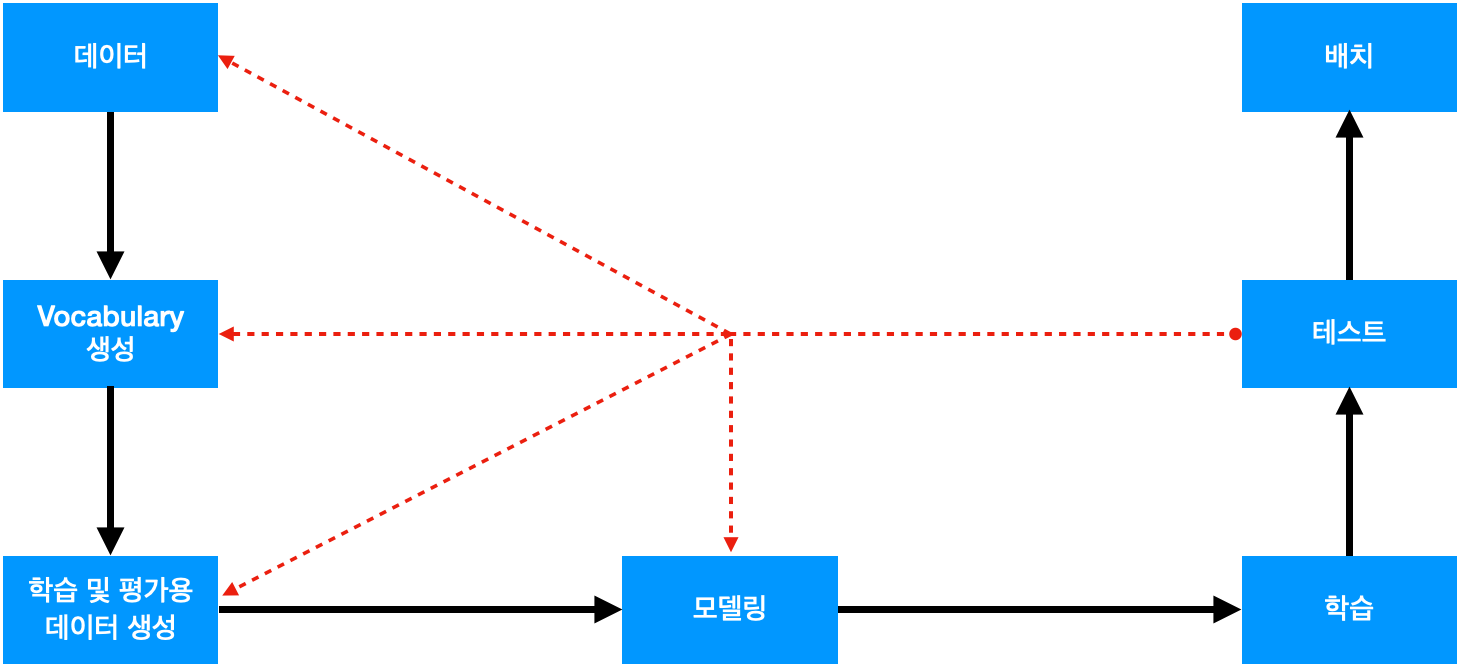
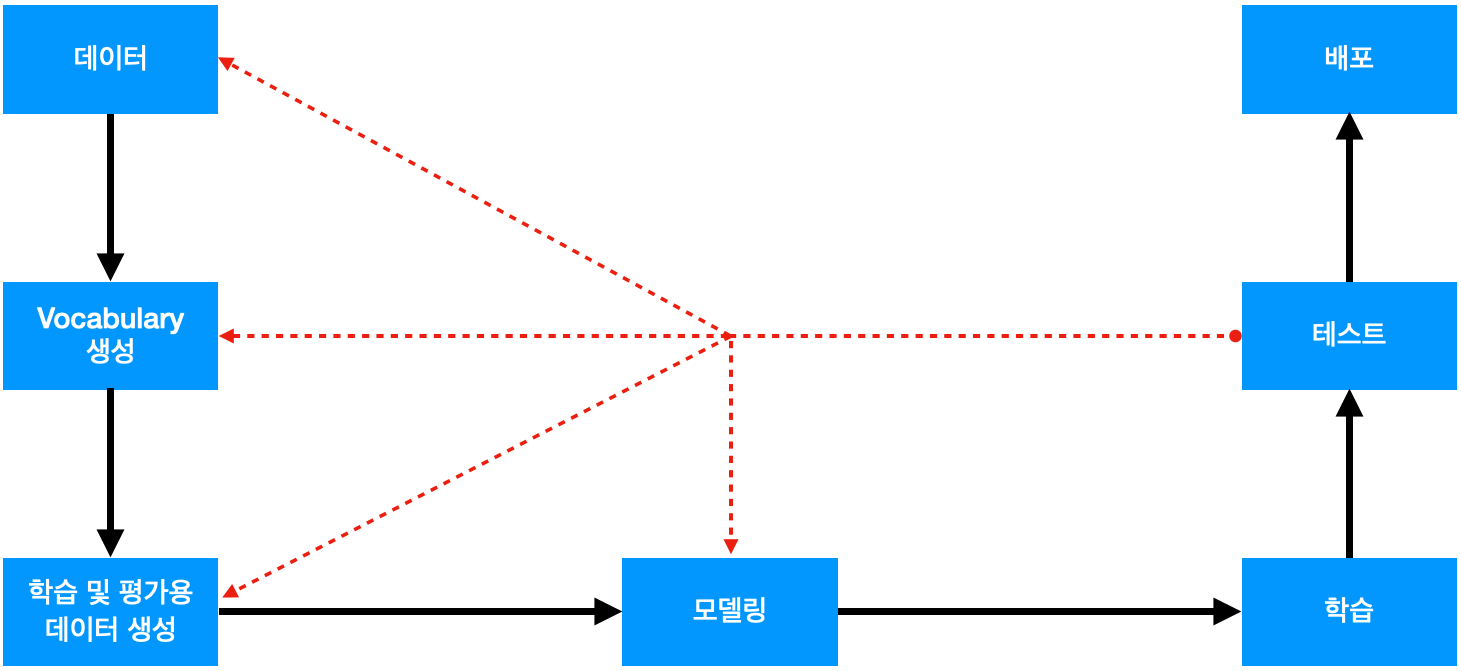
배치 용어 정리

diff --git a/_posts/2021-03-10-nlp-tutorial-01-01-sequence-prediction.md b/_posts/2021-03-10-nlp-tutorial-01-01-sequence-prediction.md
@@ -59,9 +59,9 @@ hidden: false
   - 데이터를 이용해서 모델을 학습하는 과정입니다.
 - **테스트**
   - 학습된 모델을 테스트하는 과정입니다.
-  - 모델을 테스트해서 성능이 기준치보다 좋으면 서비스에 배치 합니다.
+  - 모델을 테스트해서 성능이 기준치보다 좋으면 서비스에 배포 합니다.
   - 만일 모델의 성능이 기준치보다 성능이 낮은 경우는 원인을 분석하고 문제가 된다고 생각되는 과정으로 돌아가서 그 과정을 개선하고 다시 학습하고 테스트해 봅니다.
-- **배치**
+- **배포**
   - 학습된 모델을 이용하여 실제 문제에 적용해서 문제를 개선하는 과정입니다.
 
 이제 workflow에 따라서 최대한 간략하게 프로젝트를 진행해 보겠습니다.
@@ -318,7 +318,7 @@ class SimpleDataSet(torch.utils.data.Dataset):
 
     def collate_fn(self, batch):
         """
-        배치단위로 데이터 처리
+        batch단위로 데이터 처리
         :param batch: batch 단위 데이터
         """
         inputs, labels = list(zip(*batch))
@@ -343,7 +343,7 @@ class SimpleDataSet(torch.utils.data.Dataset):
 - def &#95;&#95;get_item&#95;&#95;(self, index):
   - DataSet에서 한 개의 특정한 item을 조회할 때 사용합니다.
 - def collate_fn(self, batch):
-  - 배치단위로 데이터를 처리할 때 사용합니다. 위 함수는 입력문장의 길이가 다를 경우 짧은 문장의 뒷부분에 [PAD]를 의미하는 0을 추가해서 문장의 길이를 동일하게 만들어주는 역할을 합니다. PAD(0)은 vocabulary에 정의된 값입니다.
+  - batch단위로 데이터를 처리할 때 사용합니다. 위 함수는 입력문장의 길이가 다를 경우 짧은 문장의 뒷부분에 [PAD]를 의미하는 0을 추가해서 문장의 길이를 동일하게 만들어주는 역할을 합니다. PAD(0)은 vocabulary에 정의된 값입니다.
 
 이제 DataSet 클래스를 생성합니다.
 
@@ -616,9 +616,9 @@ def train_epoch(args, model, loader, loss_fn, optimizer):
 
 - **line 11**: 모델을 train 모드로 변경합니다.
 - **line 13**: loss를 저장할 변수 'losses'와 accuracy를 저장할 변수 'access'를 생성합니다.
-- **line 15**: data loader로부터 데이터를 배치단위로 읽어옵니다. 배치단위로 읽는 이유는 학습할 데이터는 보통 몇천 개 이상일 경우가 많은데 이것을 한꺼번에 처리가 불가능하기 때문에 나눠서 처리합니다. 이처럼 배치단위로 처리하는 1번의 과정을 step이라고 합니다.
+- **line 15**: data loader로부터 데이터를 batch단위로 읽어옵니다. batch단위로 읽는 이유는 학습할 데이터는 보통 몇천 개 이상일 경우가 많은데 이것을 한꺼번에 처리가 불가능하기 때문에 나눠서 처리합니다. 이처럼 batch단위로 처리하는 1번의 과정을 step이라고 합니다.
 - **line 17**: 'optimizer'의 gradient를 모두 0으로 초기화 합니다. 즉 이전에 step에서 계산된 gradient를 0으로 변경 합니다.
-- **line 19**: 배치단위 입력을 GPU 또는 CPU에 로딩합니다. CPU를 사용하는 경우라면 이미 로딩되어 있음으로 의미 없는 부분입니다. 그렇지만 이렇게 구현하면 CPU/GPU 둘 다 수정 없이 동작합니다.
+- **line 19**: batch단위 입력을 GPU 또는 CPU에 로딩합니다. CPU를 사용하는 경우라면 이미 로딩되어 있음으로 의미 없는 부분입니다. 그렇지만 이렇게 구현하면 CPU/GPU 둘 다 수정 없이 동작합니다.
 - **line 21**: 'inputs'을 입력으로 모델의 'forward'함수를 실행하고 결과로 'logits'을 받습니다.
 - **line 23~24**: loss 함수 'loss_fn'을 이용해 loss를 계산하고 loss의 'backward' 함수를 실행해서 미분을 통해 gradient를 구합니다.
 - **line 26**: 'optimizer'를 이용해서 model의 paramters 값들을 loss가 감소하는 방향으로 변경합니다.
@@ -665,8 +665,8 @@ def eval_epoch(args, model, loader, loss_fn):
 - **line 10**: 모델을 eval 모드로 변경합니다.
 - **line 12**: loss를 저장할 변수 'losses'와 accuracy를 저장할 변수 'access'를 생성합니다.
 - **line 14**: pytorch가 gradient를 계산하지 않도록 선언합니다. 
-- **line 15**: data loader로부터 데이터를 배치단위로 읽어옵니다.
-- **line 17**: 배치단위 입력을 GPU 또는 CPU에 로딩합니다.
+- **line 15**: data loader로부터 데이터를 batch단위로 읽어옵니다.
+- **line 17**: batch단위 입력을 GPU 또는 CPU에 로딩합니다.
 - **line 19**: 'inputs'을 입력으로 모델의 'forward'함수를 실행하고 결과로 'logits'을 받습니다.
 - **line 21**: loss 함수 'loss_fn'을 이용해 loss를 계산합니다.
 - **line 23~24**: 'loss'에서 값을 받아서 'losses'에 저장합니다.
@@ -773,7 +773,7 @@ draw_history(history)
 
 #### 8. 테스트
 
-이제 학습된 모델을 테스트해 봅니다. 모델을 테스트하는 이유는 이 모델이 실제 현장에 배치가 가능한지를 확인해보기 위함입니다. 실제 상황에서는 더 다양하고 엄밀하게 테스트를 진행해야 합니다.
+이제 학습된 모델을 테스트해 봅니다. 모델을 테스트하는 이유는 이 모델이 실제 현장에 배포가 가능한지를 확인해보기 위함입니다. 실제 상황에서는 더 다양하고 엄밀하게 테스트를 진행해야 합니다.
 
 
 우선 테스트용 모델을 생성합니다.
@@ -858,15 +858,15 @@ print(valid_loss, valid_acc)
 
 만일 테스트 결과가 만족스럽지 않다면 이전 과정 ('데이터', 'vocabulary 생성', '학습 및 평가용 데이터 생성', '모델링', '학습') 중에서 성능 저하의 원인이 되는 부분을 개선하고 학습하고 테스트하는 과정을 반복해야 합니다. 이런 시행착오를 줄이기 위한 효과적인 방법은 많은 논문 또는 블로그를 참고하는 것입니다.
 
-#### 9. 배치
+#### 9. 배포
 
 이제 테스트 과정이 잘 되었다는 가정하에서 학습됨 모델을 이용해 간단하게 사용자 입력을 받아서 단어의 명사 여부를 예측해 보겠습니다.
 
 
-우선 배치용 모델을 생성합니다. 하고 학습된 weights로 모델을 초기화합니다.
+우선 배포용 모델을 생성합니다. 하고 학습된 weights로 모델을 초기화합니다.
 
 ```python
-# 배치용 모델 생성
+# 배포용 모델 생성
 model = SequencePrediction(len(word_to_id))
 model.to(args.device)
 
